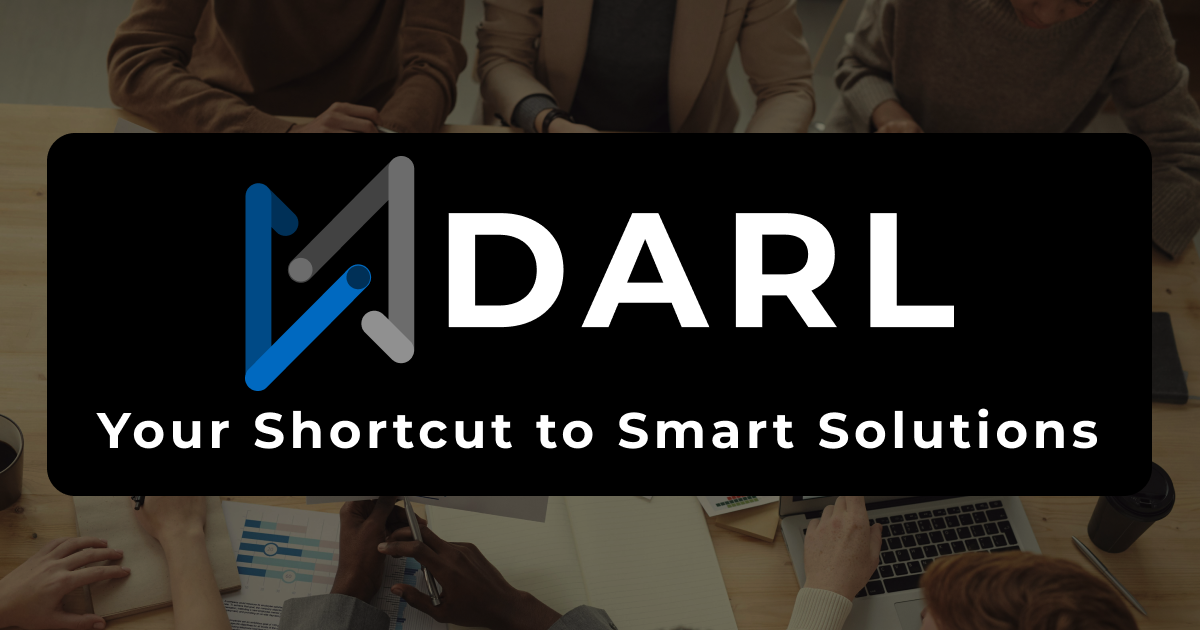
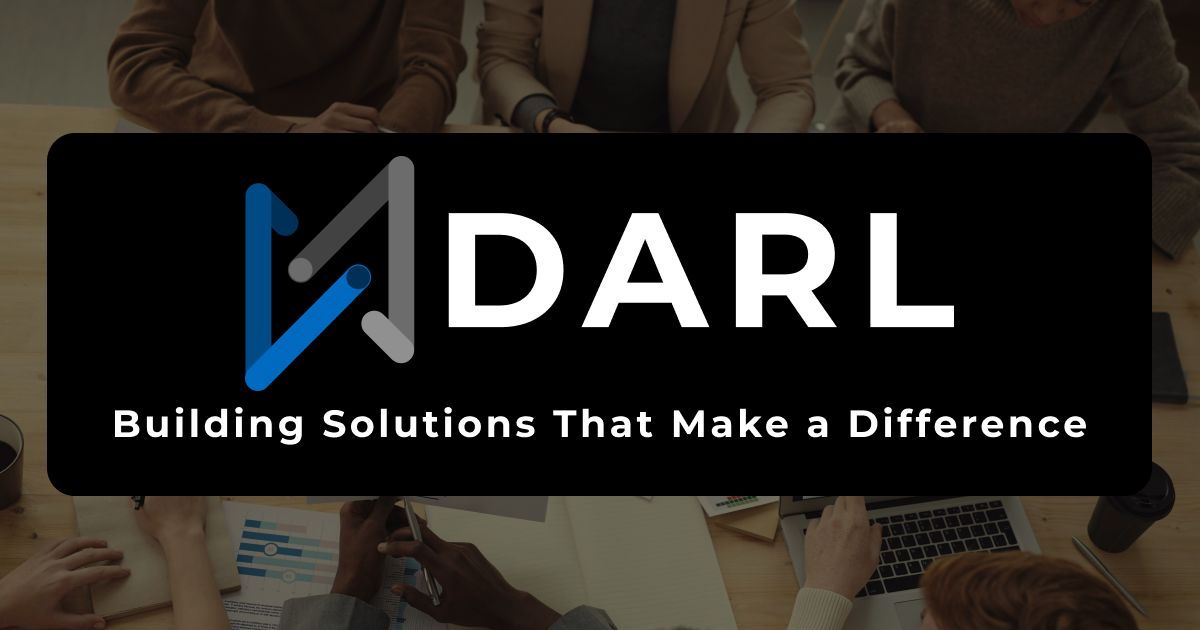
updated layouts and og-image for SEO

Changed region(s): [[0.0617, 0.6333, 0.925, 0.7238]]

diff --git a/app/layout.tsx b/app/layout.tsx
@@ -23,8 +23,58 @@ export const metadata: Metadata = {
     "Splunk solutions",
     "data analytics",
     "Next.js web development",
-    "automation for small businesses"
+    "automation for small businesses",
+    "automation for small businesses",
+    "custom software development",
+    "business process optimization",
+    "digital solutions",
+    "enterprise software",
+    "cloud computing",
+    "machine learning",
+    "artificial intelligence",
+    "business intelligence",
+    "data visualization",
+    "process automation",
+    "digital strategy",
+    "IT consulting",
+    "technology solutions",
+    "software integration",
+    "digital workflow",
+    "business efficiency",
+    "tech consulting"
   ],
+  openGraph: {
+    title: "Darl | Building Solutions That Make a Difference",
+    description:
+      "Modern Tech. Creative Minds. Smarter Solutions. Get started with Darl today.",
+    url: "https://darl.dev",
+    siteName: "Darl",
+    images: [
+      {
+        url: "https://darl.dev/og-image.png",
+        width: 1200,
+        height: 630,
+        alt: "Darl - Building Solutions That Make a Difference",
+      },
+    ],
+    locale: "en_US",
+    type: "website",
+  },
+  twitter: {
+    card: "summary_large_image",
+    title: "Darl | Building Solutions That Make a Difference",
+    description:
+      "Empowering small businesses with automation, AI, and modern web solutions. Start your journey with Darl today.",
+    images: ["https://darl.dev/og-image.png"],
+  },
+  alternates: {
+    canonical: "https://darl.dev",
+  },
+  icons: {
+    icon: "/favicon.ico",
+  },
+  themeColor: "#0f172a",
+}  ],
   openGraph: {
     title: "Darl | Building Solutions That Make a Difference",
     description:
